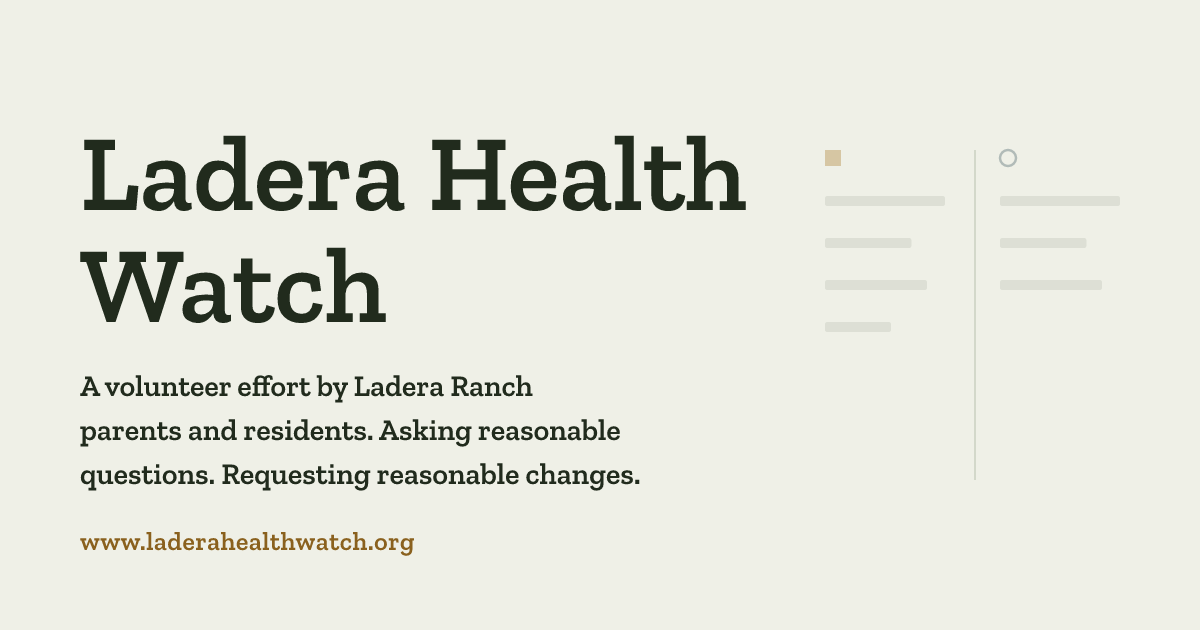
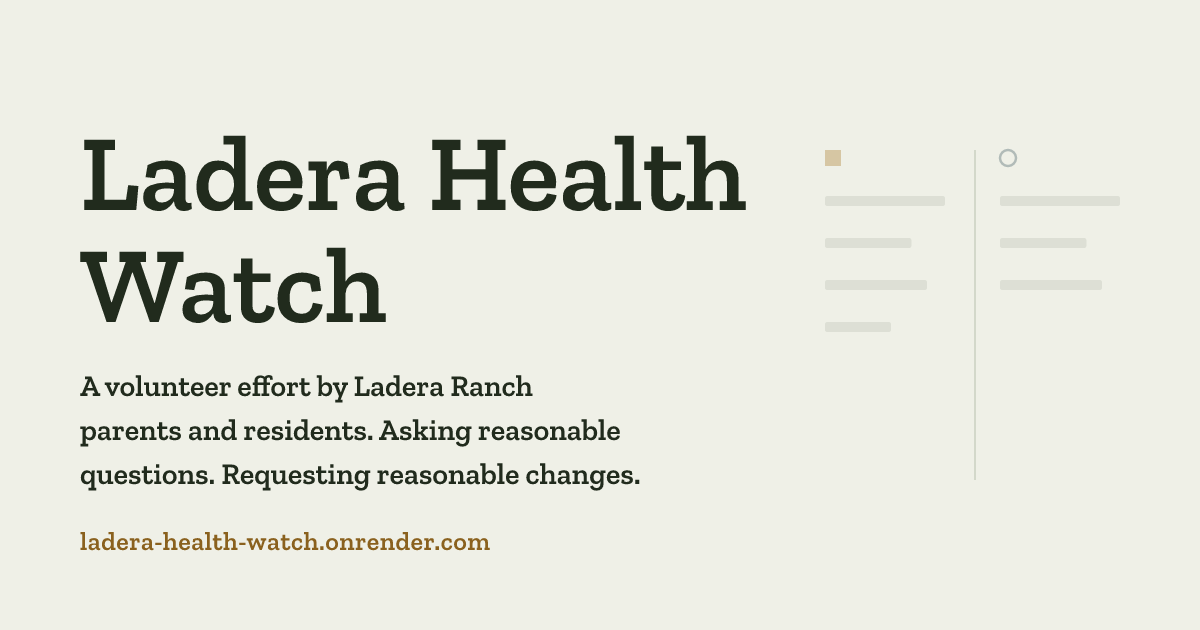
Point site config at the Render address and fill in real contact links
- site: / SITE_URL / robots.txt sitemap now point at
  ladera-health-watch.onrender.com instead of the placeholder domain
- Facebook group URL set to the real group
- Contact email set to a temporary address ([email redacted]) until
  the group provides a real monitored inbox
- Regenerated public/og.png so the share card's domain text matches

Changed region(s): [[0.0617, 0.8444, 0.4008, 0.8746]]

diff --git a/src/site.config.ts b/src/site.config.ts
@@ -7,8 +7,10 @@ export const SITE_TAGLINE = 'Asking reasonable questions. Requesting reasonable 
 export const SITE_DESCRIPTION =
   'A volunteer group of Ladera Ranch parents and residents gathering information on self-reported pediatric cancer cases, requesting a formal state health analysis, and working constructively with LARMAC on pesticide and herbicide use in common areas.';
 
-// TODO: confirm final domain once purchased domain is pointed and site name is locked in.
-export const SITE_URL = 'https://www.laderahealthwatch.org';
+// Temporary Render address. TODO: replace once a custom domain is attached
+// (keep this in sync with `site:` in astro.config.mjs and the Sitemap line
+// in public/robots.txt).
+export const SITE_URL = 'https://ladera-health-watch.onrender.com';
 
 export const SURVEY_FORM_URL =
   'https://docs.google.com/forms/d/e/1FAIpQLScoVS05sh4rVlugue0yNQin1IueERH5VFb-HGrkRtP9OQCS0g/viewform';
@@ -16,11 +18,10 @@ export const SURVEY_FORM_URL =
 export const VOLUNTEER_FORM_URL =
   'https://docs.google.com/forms/d/e/1FAIpQLSfQRYig-IQ7e-6iE0aSLAUW-lP4a3a3l6v_AIZ3jLXU9bY7Pg/viewform';
 
-// TODO: replace with a real monitored contact email for the group.
-export const CONTACT_EMAIL = '[email redacted]';
+// TODO: temporary contact address; replace with the group's real monitored inbox.
+export const CONTACT_EMAIL = '[email redacted]';
 
-// TODO: confirm this is the correct/current Ladera Health Watch Facebook group URL.
-export const FACEBOOK_GROUP_URL = 'https://www.facebook.com/groups/TODO-REPLACE-WITH-GROUP-SLUG';
+export const FACEBOOK_GROUP_URL = 'https://www.facebook.com/groups/186166214769732';
 
 // TODO: confirm current LARMAC IPM / spray-notice page URL (laderalife.com structure may change).
 export const LARMAC_IPM_NOTICES_URL = 'https://www.laderalife.com/TODO-REPLACE-WITH-IPM-NOTICES-PATH';

diff --git a/TODO.md b/TODO.md
@@ -11,11 +11,11 @@ grep -rn "TODO" src public astro.config.mjs
 ## Must supply before launch
 
 - [ ] **Site name**: currently "Ladera Health Watch" in `src/site.config.ts` (`SITE_NAME`). Change it there once the group finalizes the name; every page pulls from this one place.
-- [ ] **Domain**: deploying on Render for now, so set the temporary `.onrender.com` URL in `astro.config.mjs` (`site:`), `src/site.config.ts` (`SITE_URL`), and `public/robots.txt` (the `Sitemap:` line); update all three again once a custom domain is attached. See README section 2 and 3.
+- [x] **Domain**: set to `https://ladera-health-watch.onrender.com` in `astro.config.mjs` (`site:`), `src/site.config.ts` (`SITE_URL`), and `public/robots.txt` (the `Sitemap:` line). Update all three again once a custom domain is attached. See README section 2 and 3.
 - [x] **Health survey form URL**: set in `src/site.config.ts` (`SURVEY_FORM_URL`).
 - [x] **Volunteer sign-up form URL**: set in `src/site.config.ts` (`VOLUNTEER_FORM_URL`).
-- [ ] **Contact email**: `CONTACT_EMAIL` in `src/site.config.ts`.
-- [ ] **Facebook group URL**: confirm `FACEBOOK_GROUP_URL` in `src/site.config.ts` is correct and current.
+- [ ] **Contact email**: `CONTACT_EMAIL` in `src/site.config.ts` is temporarily set to `[email redacted]`. Replace with the group's real, monitored inbox before launch.
+- [x] **Facebook group URL**: set in `src/site.config.ts` (`FACEBOOK_GROUP_URL`).
 - [ ] **LARMAC IPM/spray notices page URL**: confirm `LARMAC_IPM_NOTICES_URL` in `src/site.config.ts` (laderalife.com's structure may change).
 - [ ] **NBC Los Angeles article URL**: `externalUrl` in `src/content/news/2026-07-01-nbc-los-angeles-coverage.md`. Add any other press coverage as additional files in the same format.
 - [ ] **Photos**: every `ImageSlot` placeholder needs a real resident-contributed photo. Search for `ImageSlot` in `src/pages/` to find each one, and see "Photo placeholder" captions on the built pages.